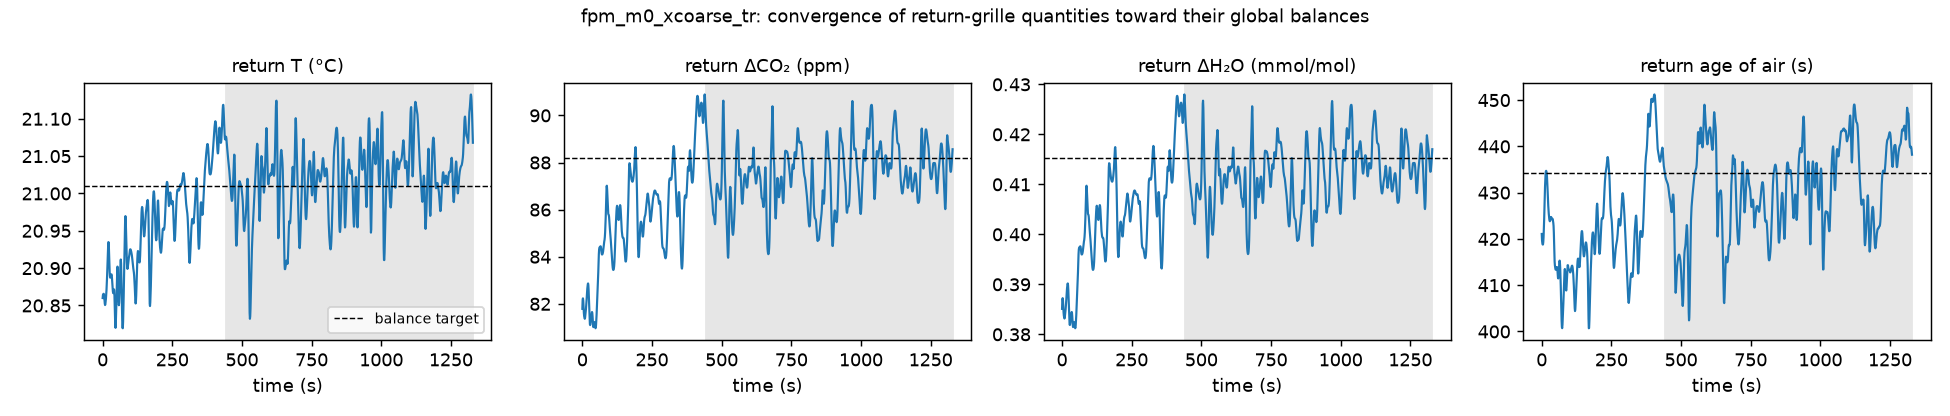
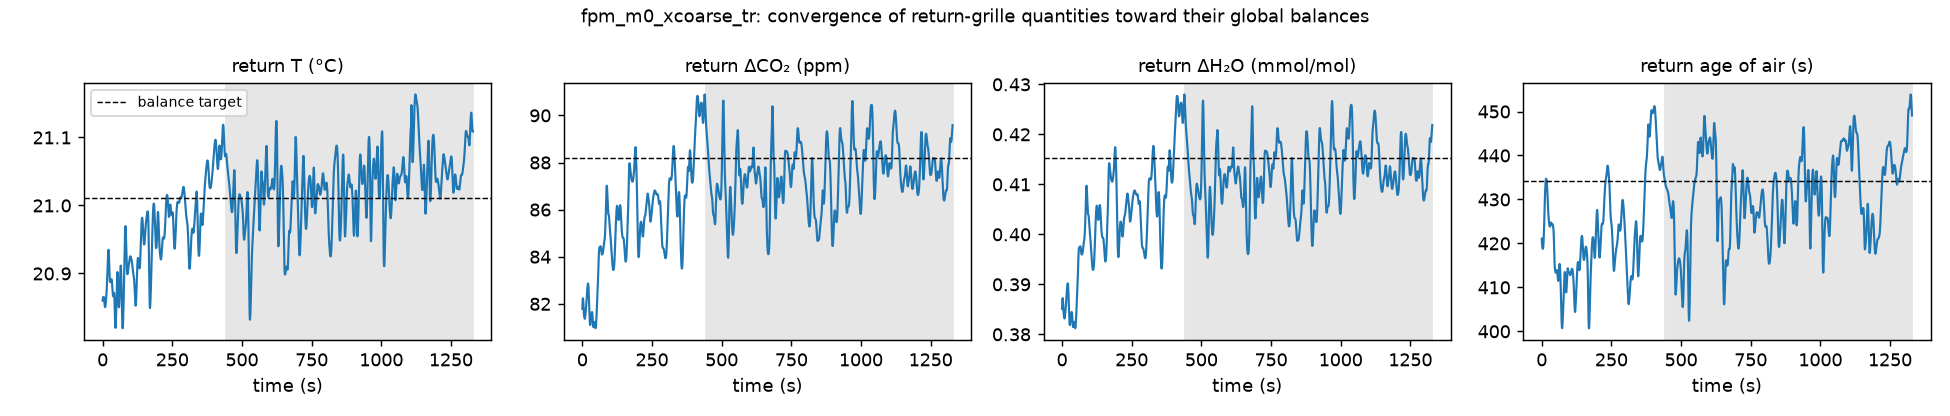
GCI recomputed with the xcoarse run completed to its end: 4 of 19 quotable, room-mean T GCI 8.2 % (p 0.51); report, brief and manuscript regenerated

diff --git a/habitat/manuscript_numbers.py b/habitat/manuscript_numbers.py
@@ -48,7 +48,8 @@ def main() -> None:
         m.update({"GciHFine": f"{hs[0]:.1f}", "GciHMed": f"{hs[1]:.1f}", "GciHCoarse": f"{hs[2]:.1f}",
                   "GciDomainMax": f"{max(v for k, v in sp.items() if k.startswith('domain:')):.1f}",
                   "GciLocalMax": f"{max(v for k, v in sp.items() if not k.startswith('domain:')):.0f}",
-                  "GciRoomT": f"{gci['gci']['domain:T_excess_K']['gci_fine_pct']:.1f}"})
+                  "GciRoomT": f"{gci['gci']['domain:T_excess_K']['gci_fine_pct']:.1f}",
+                  "GciRoomP": f"{gci['gci']['domain:T_excess_K']['p']:.2f}"})
     a20 = _j("results/cfd/annex20.json")
     if a20:
         def rng(model):

diff --git a/manuscript/numbers.tex b/manuscript/numbers.tex
@@ -1,6 +1,6 @@
 % generated by habitat/manuscript_numbers.py from the result files; do not edit by hand
 \newcommand{\LedgerDigest}{53413134410685ff}
-\newcommand{\GitHead}{d40a157}
+\newcommand{\GitHead}{3eeade6}
 \newcommand{\NRecords}{174}
 \newcommand{\NAssumed}{80}
 \newcommand{\NSpecified}{51}
@@ -16,9 +16,10 @@
 \newcommand{\GciHFine}{48.7}
 \newcommand{\GciHMed}{62.8}
 \newcommand{\GciHCoarse}{84.6}
-\newcommand{\GciDomainMax}{2.7}
+\newcommand{\GciDomainMax}{2.6}
 \newcommand{\GciLocalMax}{13}
-\newcommand{\GciRoomT}{2.9}
+\newcommand{\GciRoomT}{8.2}
+\newcommand{\GciRoomP}{0.51}
 \newcommand{\SstLo}{0.07}
 \newcommand{\SstHi}{0.18}
 \newcommand{\KeLo}{0.04}

diff --git a/results/cfd/gci_m0.md b/results/cfd/gci_m0.md
@@ -10,24 +10,24 @@ Ladder shifted coarser by decision (57 / 80 / 113 mm); the 'fine' level is the 5
 
 | Quantity | 57 mm | 80 mm | 113 mm | p | GCI_fine % | convergence |
 |---|---|---|---|---|---|---|
-| domain:T_excess_K | 3.119 | 3.091 | 3.043 | 1.29 | 2.94 | monotonic |
-| domain:AoA_s | 451.9 | 454.7 | 447.6 | 3.30 | 0.58 | oscillatory |
-| domain:dCO2_ppm | 90.32 | 89.98 | 87.87 | 5.93 | 0.13 | monotonic |
-| occupied:U_mean_m_s | 0.1082 | 0.1134 | 0.1125 | 8.07 | 0.87 | oscillatory |
-| crew_1:dCO2_ppm | 141.9 | 131.4 | 125.6 | 3.33 | 6.98 | monotonic |
-| crew_1:T_excess_K | 3.458 | 3.314 | 3.215 | 2.32 | 6.46 | monotonic |
-| crew_2:dCO2_ppm | 144 | 131.3 | 136.5 | 4.01 | 6.19 | oscillatory |
-| crew_2:T_excess_K | 3.753 | 3.632 | 3.676 | 4.60 | 1.81 | oscillatory |
-| nft_canopy:T_excess_K | 3.274 | 3.249 | 3.211 | 0.89 | 3.79 | monotonic |
-| nft_canopy:dH2O_mmol_mol | 0.414 | 0.4138 | 0.4052 | 12.25 | 0.00 | monotonic |
-| aisle_x2:T_excess_K | 2.917 | 2.883 | 2.876 | 7.30 | 0.27 | monotonic |
+| domain:T_excess_K | 3.119 | 3.091 | 3.052 | 0.51 | 8.23 | monotonic |
+| domain:AoA_s | 451.9 | 454.7 | 448.1 | 3.04 | 0.66 | oscillatory |
+| domain:dCO2_ppm | 90.32 | 89.98 | 87.99 | 5.73 | 0.14 | monotonic |
+| occupied:U_mean_m_s | 0.1082 | 0.1134 | 0.1121 | 6.39 | 1.46 | oscillatory |
+| crew_1:dCO2_ppm | 141.9 | 131.4 | 126 | 3.64 | 6.08 | monotonic |
+| crew_1:T_excess_K | 3.458 | 3.314 | 3.228 | 2.99 | 4.57 | monotonic |
+| crew_2:dCO2_ppm | 144 | 131.3 | 136.6 | 3.95 | 6.34 | oscillatory |
+| crew_2:T_excess_K | 3.753 | 3.632 | 3.682 | 3.96 | 2.32 | oscillatory |
+| nft_canopy:T_excess_K | 3.274 | 3.249 | 3.219 | 0.03 | 114.39 | monotonic |
+| nft_canopy:dH2O_mmol_mol | 0.414 | 0.4138 | 0.4055 | 12.13 | 0.00 | monotonic |
+| aisle_x2:T_excess_K | 2.917 | 2.883 | 2.883 | 33.28 | 0.00 | monotonic |
 | aisle_x2:dCO2_ppm | 97.22 | 96.91 | 97.76 | 3.49 | 0.28 | oscillatory |
-| aisle_x2:U_m_s | 0.08323 | 0.07824 | 0.08311 | 0.10 | 288.01 | oscillatory |
-| aisle_x5:T_excess_K | 2.964 | 2.922 | 2.842 | 1.78 | 3.07 | monotonic |
-| aisle_x5:dCO2_ppm | 91.4 | 89.77 | 85.42 | 2.93 | 2.01 | monotonic |
-| aisle_x5:U_m_s | 0.03799 | 0.0297 | 0.01898 | 0.35 | 291.92 | monotonic |
-| aisle_x8:T_excess_K | 3.475 | 3.301 | 3.29 | 13.05 | 0.23 | monotonic |
-| aisle_x8:dCO2_ppm | 114.5 | 101.3 | 99.32 | 9.20 | 1.53 | monotonic |
-| aisle_x8:U_m_s | 0.0596 | 0.06809 | 0.06213 | 1.55 | 36.72 | oscillatory |
+| aisle_x2:U_m_s | 0.08323 | 0.07824 | 0.084 | 0.51 | 53.54 | oscillatory |
+| aisle_x5:T_excess_K | 2.964 | 2.922 | 2.856 | 1.08 | 5.56 | monotonic |
+| aisle_x5:dCO2_ppm | 91.4 | 89.77 | 85.56 | 2.82 | 2.13 | monotonic |
+| aisle_x5:U_m_s | 0.03799 | 0.0297 | 0.01624 | 1.17 | 78.81 | monotonic |
+| aisle_x8:T_excess_K | 3.475 | 3.301 | 3.298 | 19.61 | 0.04 | monotonic |
+| aisle_x8:dCO2_ppm | 114.5 | 101.3 | 99.31 | 9.17 | 1.54 | monotonic |
+| aisle_x8:U_m_s | 0.0596 | 0.06809 | 0.06274 | 2.04 | 26.17 | oscillatory |
 
 All mesh gates pass: True
